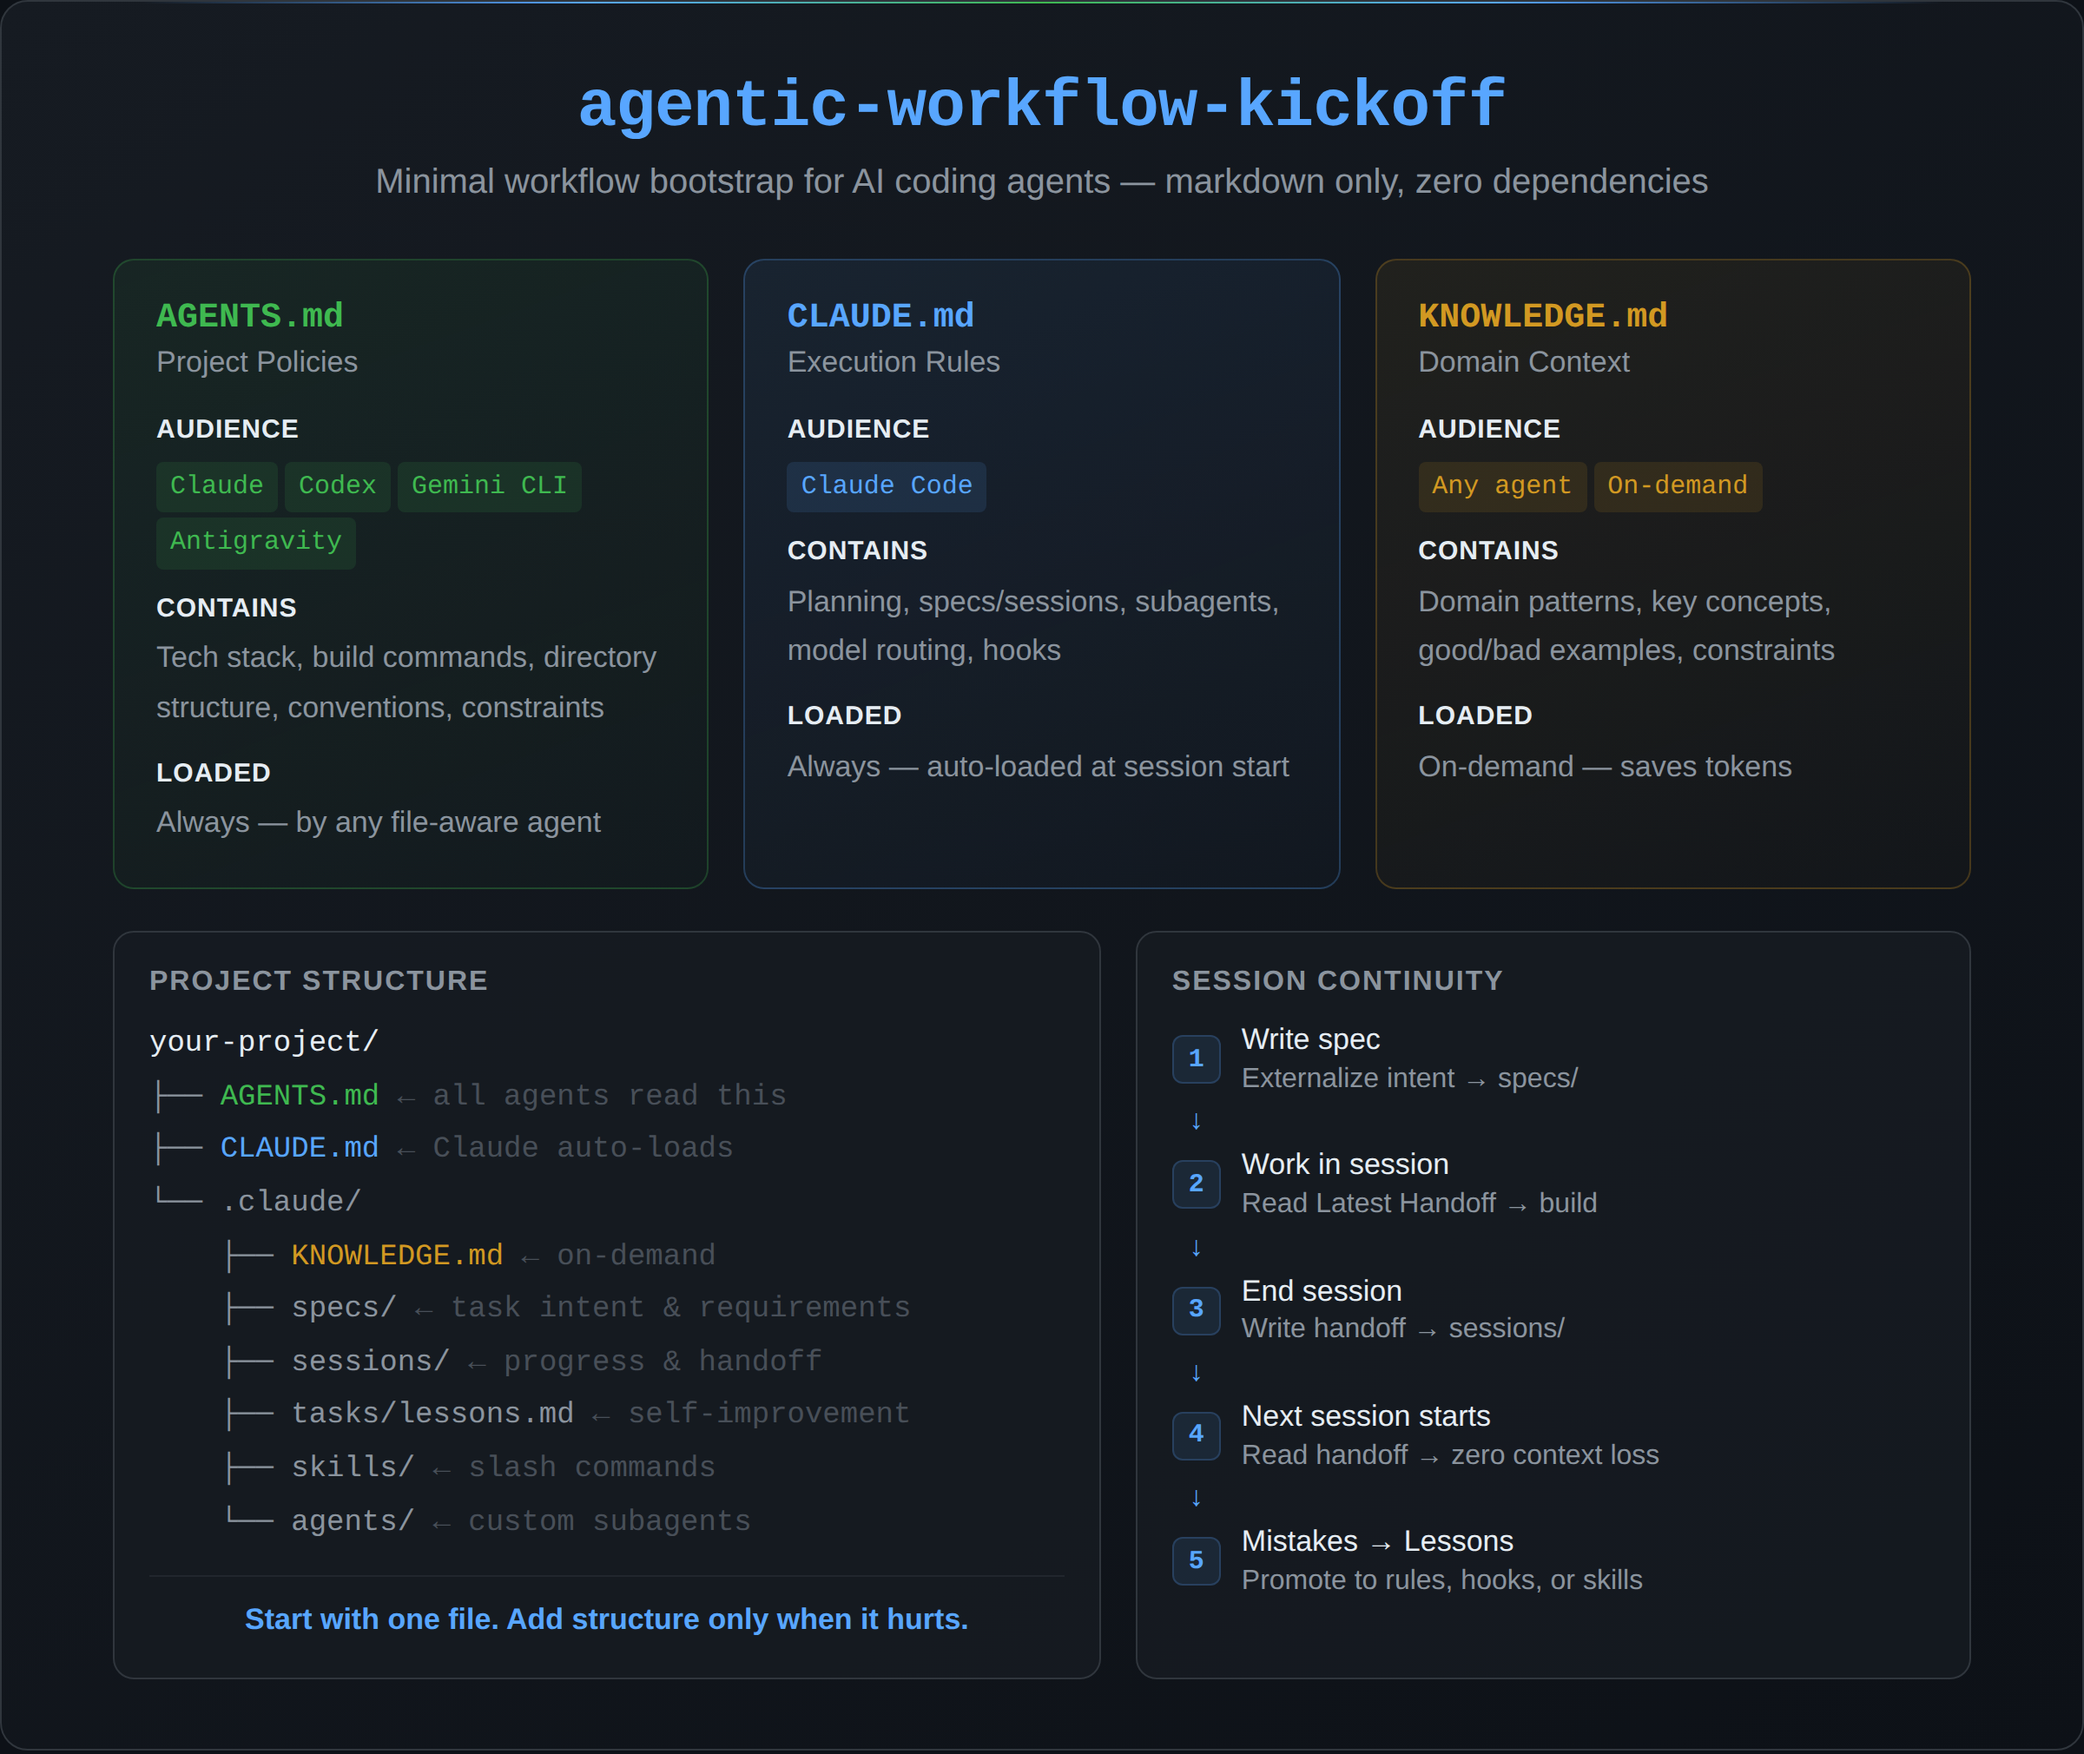
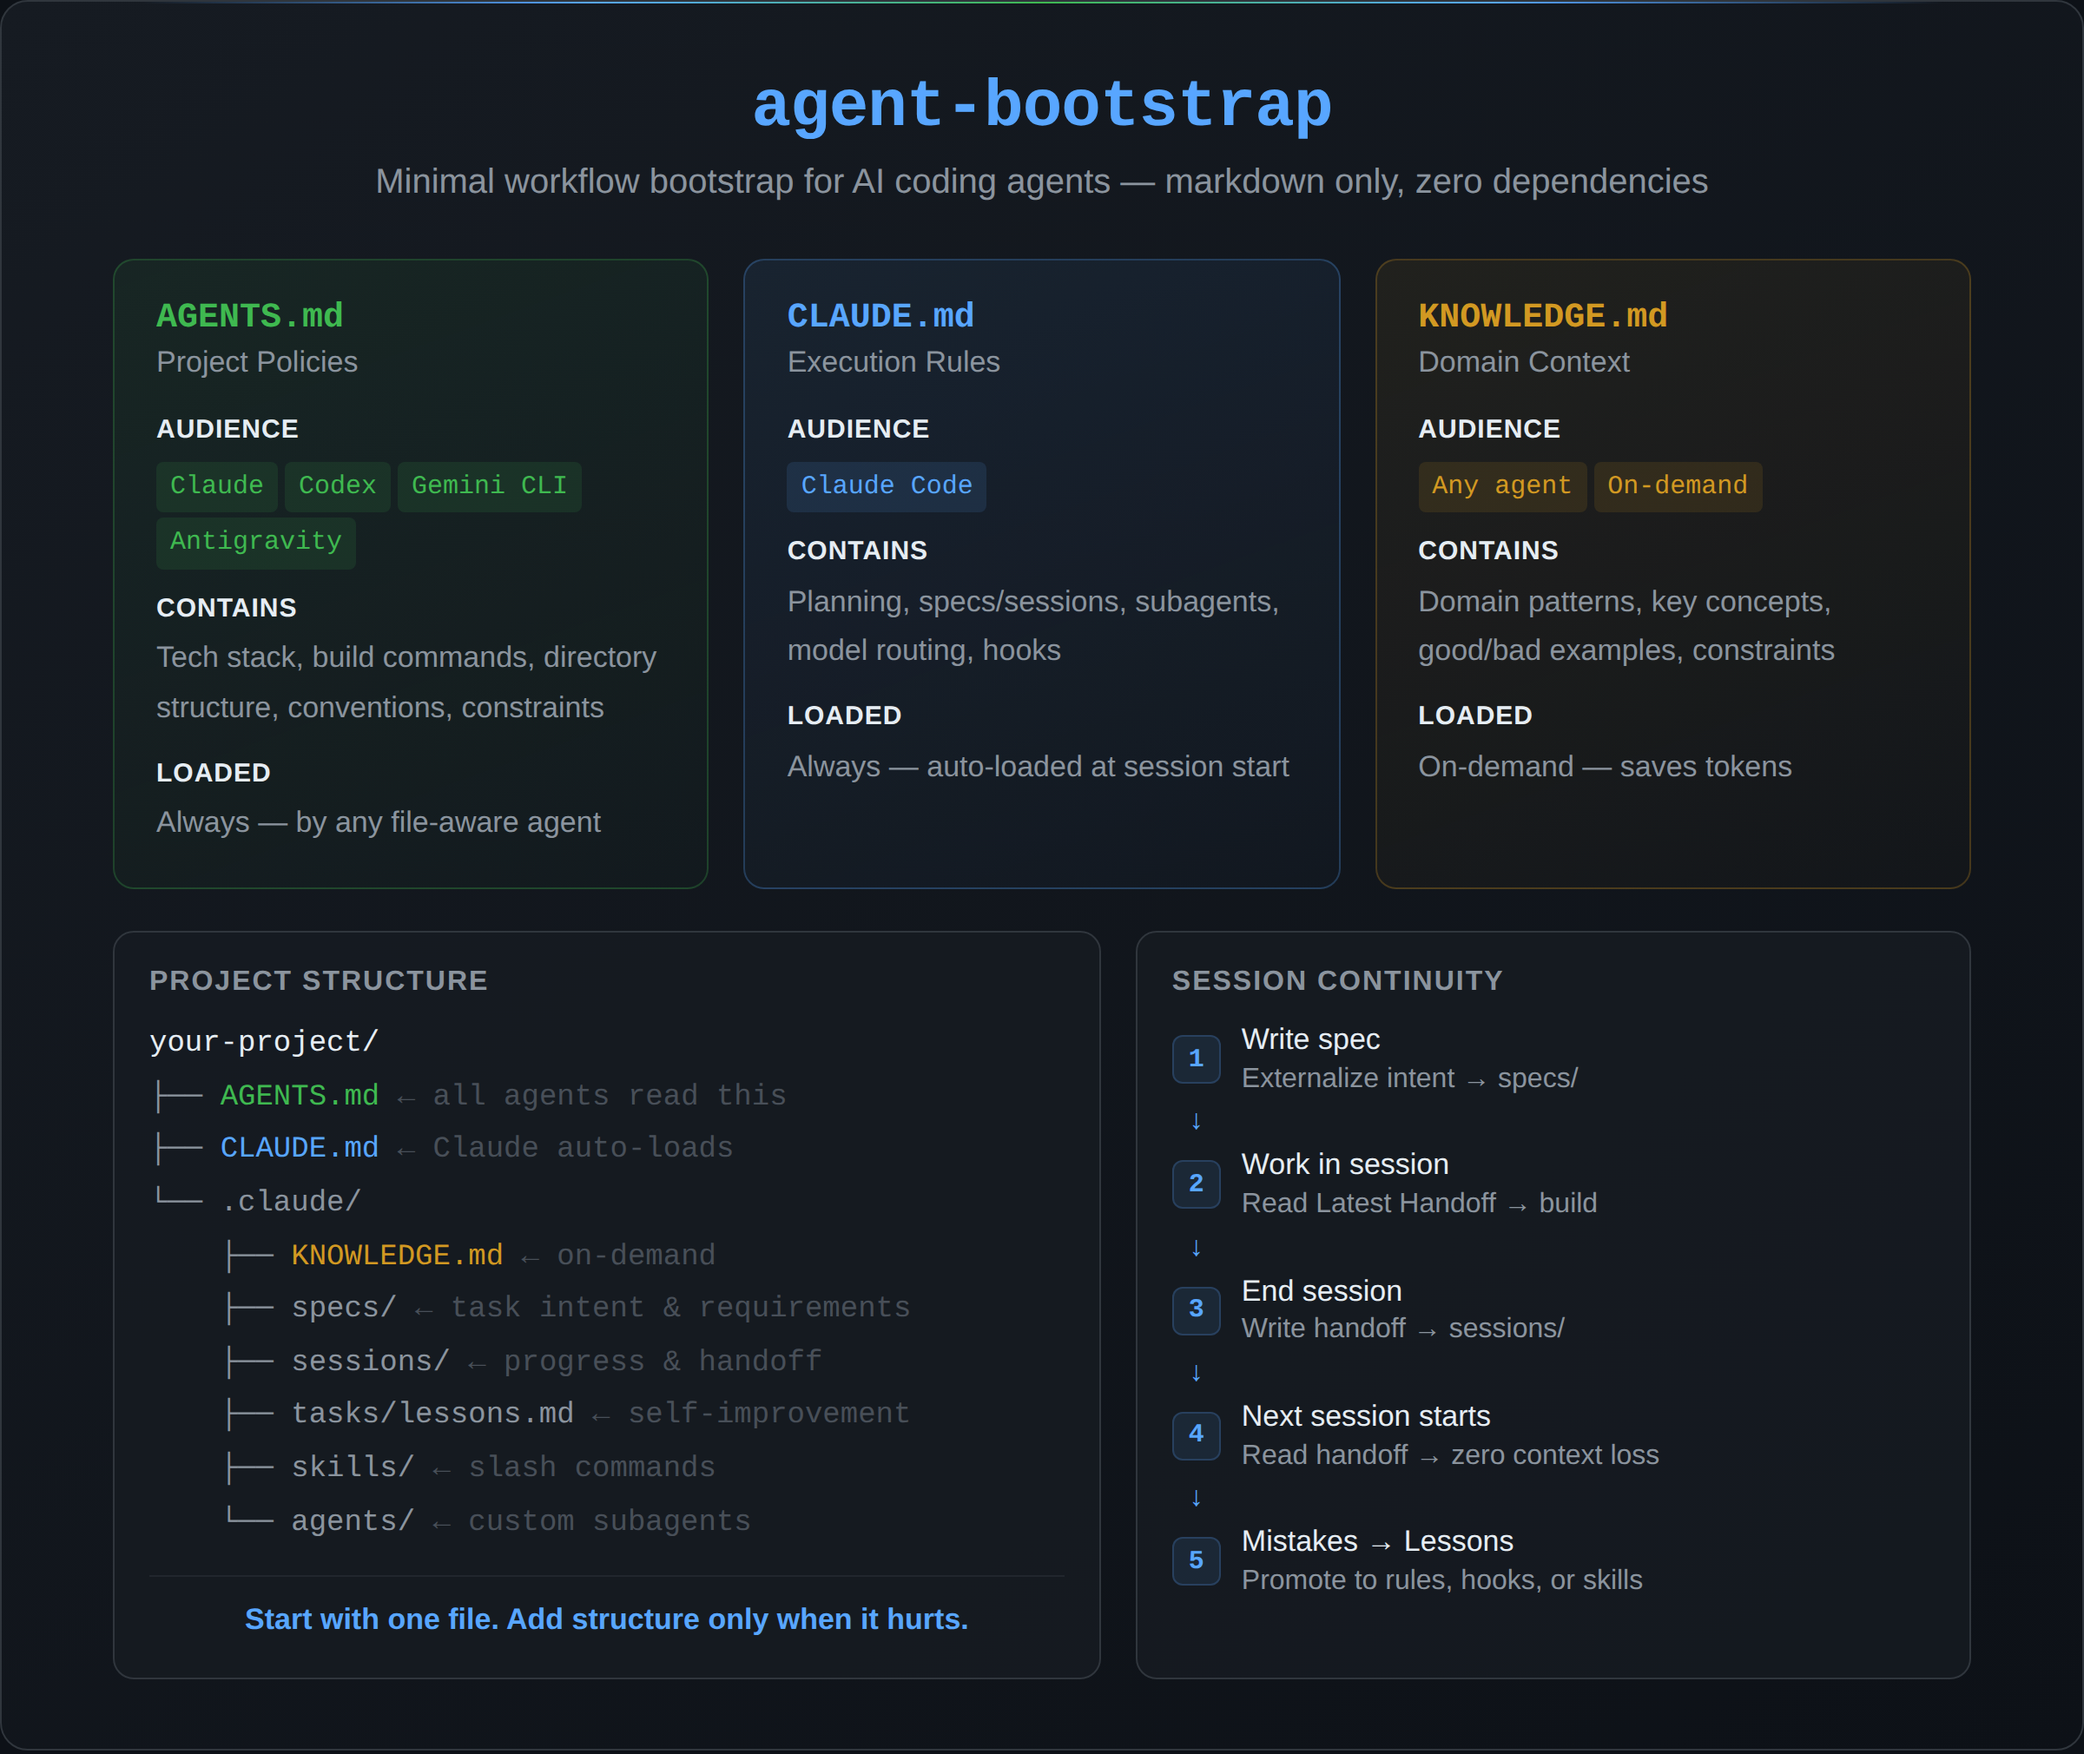
refactor: rename project to agent-bootstrap and update all related references

Changed region(s): [[0.2812, 0.0312, 0.7188, 0.0936]]

diff --git a/_BOOTSTRAP_GUIDE.md b/_BOOTSTRAP_GUIDE.md
@@ -1,4 +1,4 @@
-# agentic-workflow-kickoff — Bootstrap Guide
+# agent-bootstrap — Bootstrap Guide
 
 > Last verified: 2026-02 | Optimized for Claude Code, portable to Codex, Gemini CLI, Antigravity, and other file-aware agents
 
@@ -8,8 +8,8 @@
 
 ```bash
 cd your-project
-cp /path/to/agentic-workflow-kickoff/{AGENTS.md,CLAUDE.md,KNOWLEDGE.md,_BOOTSTRAP_GUIDE.md} .
-cp -r /path/to/agentic-workflow-kickoff/.claude .claude
+cp /path/to/agent-bootstrap/{AGENTS.md,CLAUDE.md,KNOWLEDGE.md,_BOOTSTRAP_GUIDE.md} .
+cp -r /path/to/agent-bootstrap/.claude .claude
 ```
 
 ### 2. Bootstrap your project
@@ -53,7 +53,7 @@ This works in any agent that reads markdown files — Codex, Gemini CLI, Antigra
 ## File Structure
 
 ```
-agentic-workflow-kickoff/
+agent-bootstrap/
 ├── AGENTS.md                     ← Universal agent instructions (all AI tools)
 ├── CLAUDE.md                     ← Claude Code execution rules
 ├── KNOWLEDGE.md                  ← Domain knowledge guide
@@ -139,8 +139,8 @@ Step 3: Add KNOWLEDGE.md + skills/ (domain knowledge)
 ```bash
 # 1. Copy bootstrap files
 cd your-project
-cp /path/to/agentic-workflow-kickoff/{AGENTS.md,CLAUDE.md,KNOWLEDGE.md,_BOOTSTRAP_GUIDE.md} .
-cp -r /path/to/agentic-workflow-kickoff/.claude .claude
+cp /path/to/agent-bootstrap/{AGENTS.md,CLAUDE.md,KNOWLEDGE.md,_BOOTSTRAP_GUIDE.md} .
+cp -r /path/to/agent-bootstrap/.claude .claude
 
 # 2. Bootstrap
 # Claude Code: > /init
@@ -476,6 +476,7 @@ tools: Read, Grep, Glob
 - [AGENTS.md Standard](https://github.com/agentsmd/agents.md) — universal agent instructions format (60k+ repos)
 - [Writing a Good CLAUDE.md](https://www.humanlayer.dev/blog/writing-a-good-claude-md) — context engineering best practices
 - [Claude Code Best Practices (community)](https://rosmur.github.io/claudecode-best-practices/) — aggregated patterns from r/ClaudeAI and practitioner blogs
+- [Boris Cherny's Claude Code Workflow](https://x.com/bcherny/status/2007179832300581177) — workflow practices from the creator of Claude Code
 
 **Community & Tools**
 - [awesome-claude-code](https://github.com/hesreallyhim/awesome-claude-code) — curated skills, hooks, commands, and learning resources

diff --git a/README.md b/README.md
@@ -1,4 +1,4 @@
-# agentic-workflow-kickoff
+# agent-bootstrap
 
 A minimal workflow bootstrap for Claude Code projects.
 
@@ -21,10 +21,10 @@ A minimal workflow bootstrap for Claude Code projects.
 ### 1. Copy files to your project
 
 ```bash
-git clone https://github.com/yongkyung-oh/agentic-workflow-kickoff.git
+git clone https://github.com/yongkyung-oh/agent-bootstrap.git
 cd your-project
-cp /path/to/agentic-workflow-kickoff/{AGENTS.md,CLAUDE.md,KNOWLEDGE.md,_BOOTSTRAP_GUIDE.md} .
-cp -r /path/to/agentic-workflow-kickoff/.claude .claude
+cp /path/to/agent-bootstrap/{AGENTS.md,CLAUDE.md,KNOWLEDGE.md,_BOOTSTRAP_GUIDE.md} .
+cp -r /path/to/agent-bootstrap/.claude .claude
 ```
 
 ### 2. Bootstrap your project
